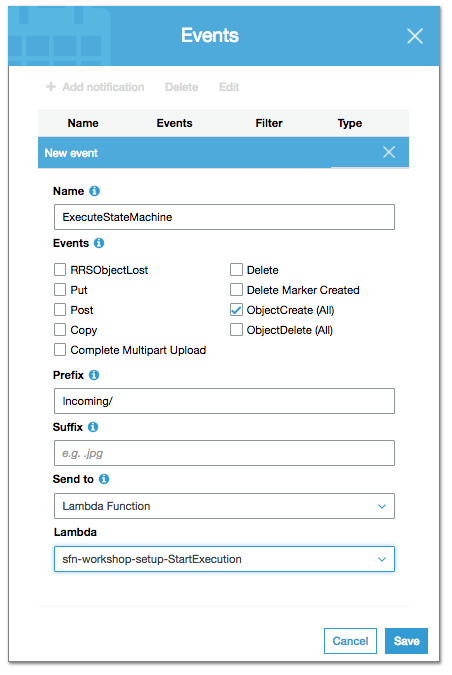
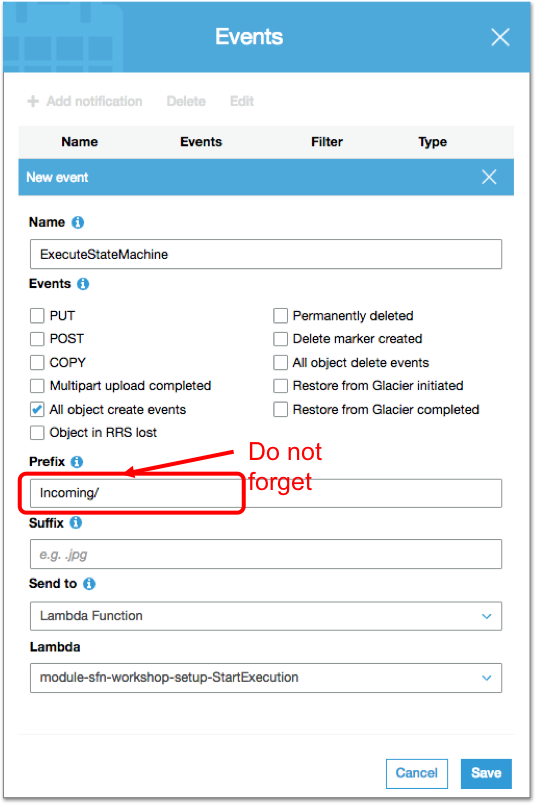
update module 5

Changed region(s): [[0.0, 0.0, 1.0, 0.9956]]

diff --git a/Workshop/step-5.md b/Workshop/step-5.md
@@ -19,7 +19,7 @@ The first step requires some extra configuration as it needs CloudTrail to be en
 
 1. On the Dashboard locate your state machine. If you followed instructions on prior steps it should be *ImageProcessing*
 
-1. On the upper right corner of the page, find and copy the **State Machine Arn**: 	 
+1. On the **Details** box, find and copy the **ARN**: 
 
 	<img src="images/5a-state-machine-arn-newer.png" width="90%">
 
@@ -55,7 +55,7 @@ The Lambda function now knows what state machine we want it to run. Now we need 
 
 1. Enter the following parameters:  
 	- **Name**: ExecuteStateMachine
-	- **Events**: ObjectCreate(All)
+	- **Events**: All object create events
 	- **Prefix**: Incoming/
 	- **Send to**: Lambda Function
 	- **Lambda**: sfn-workshop-setup-StartExecution
@@ -75,7 +75,7 @@ Now you are ready to test your event! Just upload an image within the S3 bucket 
 
 1. Click **Next** and **Upload**  
 
-1. Verify that the state machine is triggered and it executes successfully. Verify the thumbnail and data stored in DynamoDB.
+1. Verify that the state machine is triggered and it executes successfully. Verify the metadata of the new image processed is stored in DynamoDB.
 	
 	<img src="images/5c-state-machine-execution.png" width="90%">
 
